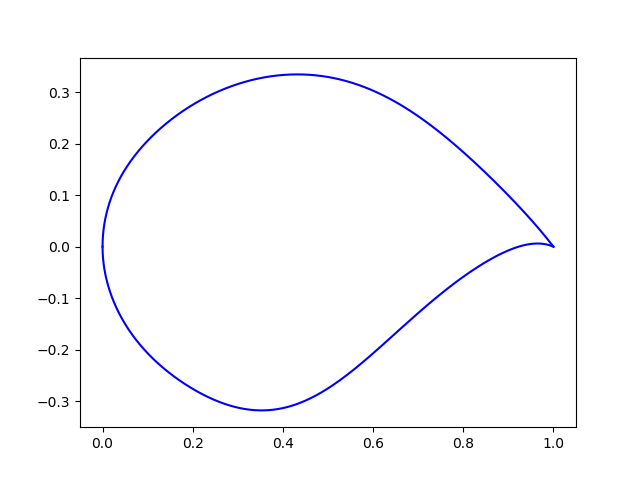
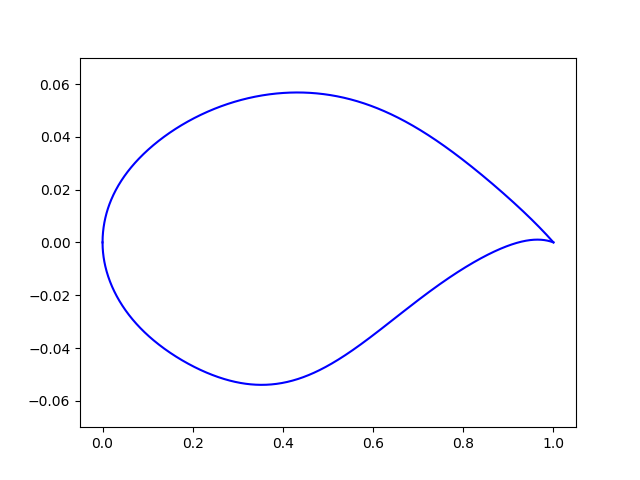
tutorial

diff --git a/example/airfoil/test-airfoil.py b/example/airfoil/test-airfoil.py
@@ -25,14 +25,18 @@ if __name__ == "__main__":
 
 
     #* Build an airfoil
-    cst_u = np.array([ 0.699328, 0.701191, 0.918286, 0.806252, 1.233955, 0.874498, 1.141528])
-    cst_l = np.array([-0.681143,-0.791295,-0.643583,-1.493055,-0.072058,-0.698530, 0.377973])
+    cst_u = np.array([ 0.118598,  0.118914,  0.155731,  0.136732,  0.209265,  0.148305,  0.193591])
+    cst_l = np.array([-0.115514, -0.134195, -0.109145, -0.253206, -0.012220, -0.118463,  0.064100])
 
     x, yu, yl, t0, R0 = cst_foil(1001, cst_u, cst_l, x=None, t=None, tail=0.0)
+
+    print(t0)
 
     plt.figure()
     plt.plot(x, yu, 'b')
     plt.plot(x, yl, 'b')
+    plt.xlim((-0.05, 1.05))
+    plt.ylim((-0.07, 0.07))
     plt.show()
 
 

diff --git a/example/Tutorial.md b/example/Tutorial.md
@@ -12,6 +12,7 @@ Reference: Kulfan, B. M., “Universal parametric geometry representation method
 	<img src="airfoil\shape-function.png" width="300"> <br>
     Fig. CST shape functions (sixth-order)
 </div>
+
 ```python
 from cst_modeling.foil import cst_curve
 from matplotlib import pyplot as plt
@@ -42,8 +43,8 @@ Build a clean airfoil with given CST coefficients.
 import numpy as np
 from cst_modeling.foil import cst_foil
 
-cst_u = np.array([ 0.699328, 0.701191, 0.918286, 0.806252, 1.233955, 0.874498, 1.141528])
-cst_l = np.array([-0.681143,-0.791295,-0.643583,-1.493055,-0.072058,-0.698530, 0.377973])
+cst_u = np.array([ 0.118598,  0.118914,  0.155731,  0.136732,  0.209265,  0.148305,  0.193591])
+cst_l = np.array([-0.115514, -0.134195, -0.109145, -0.253206, -0.012220, -0.118463,  0.064100])
 x, yu, yl, t0, R0 = cst_foil(1001, cst_u, cst_l, x=None, t=None, tail=0.0)
 
 plt.figure()
@@ -65,8 +66,14 @@ nn:         total amount of points on the upper/lower surfaces
 x:          optional ndarray [nn]. If given, the points on the airfoil are placed by the given x.
 t:          optional float. If given, the airfoil y is scaled to mathc the given relative maximum thickness
 tail:       optional float. If given, the airfoil is stretched to have the given relative tail thickness
-            (Meanwhile, the relative maximum thickness is kept the same)
+            Meanwhile, the relative maximum thickness is kept unchanged if t is specified.
+            Otherwise, the thickness will increase, when the tail is added.
 ```
+
+<div align=center>
+	<img src="airfoil\airfoil-tail-1.png" width="300"> <img src="airfoil\airfoil-tail-2.png" width="300"> <br>
+    Fig. Adding tail to an airfoil (left: t=None, right: t=0.11)
+</div>
 
 
 
